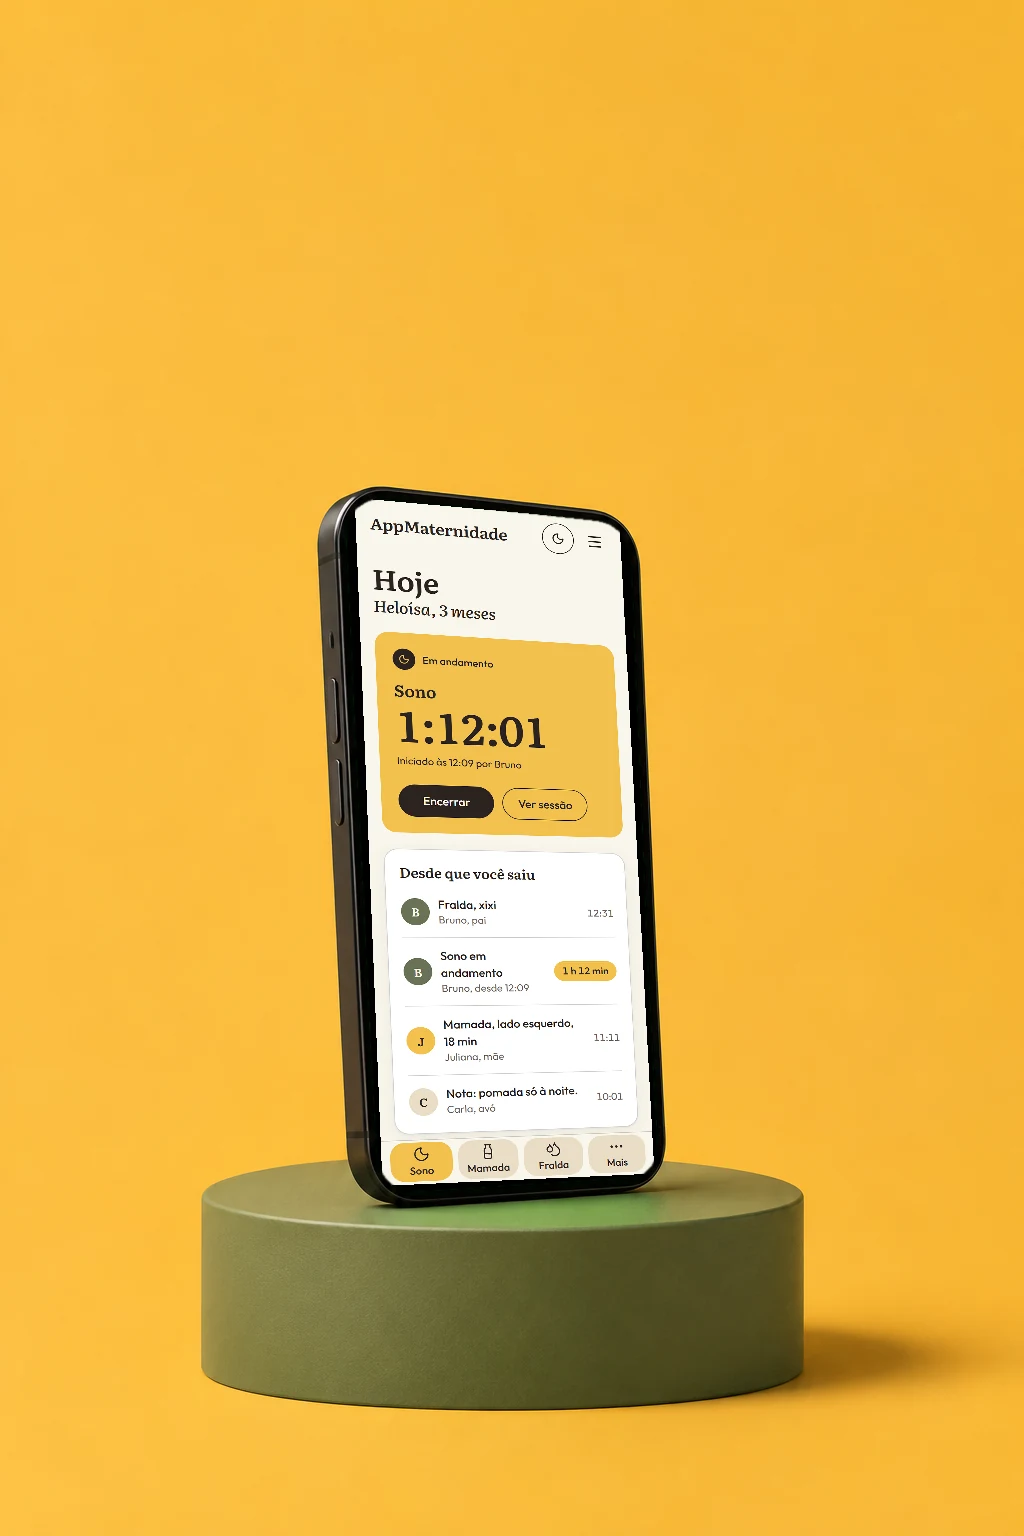
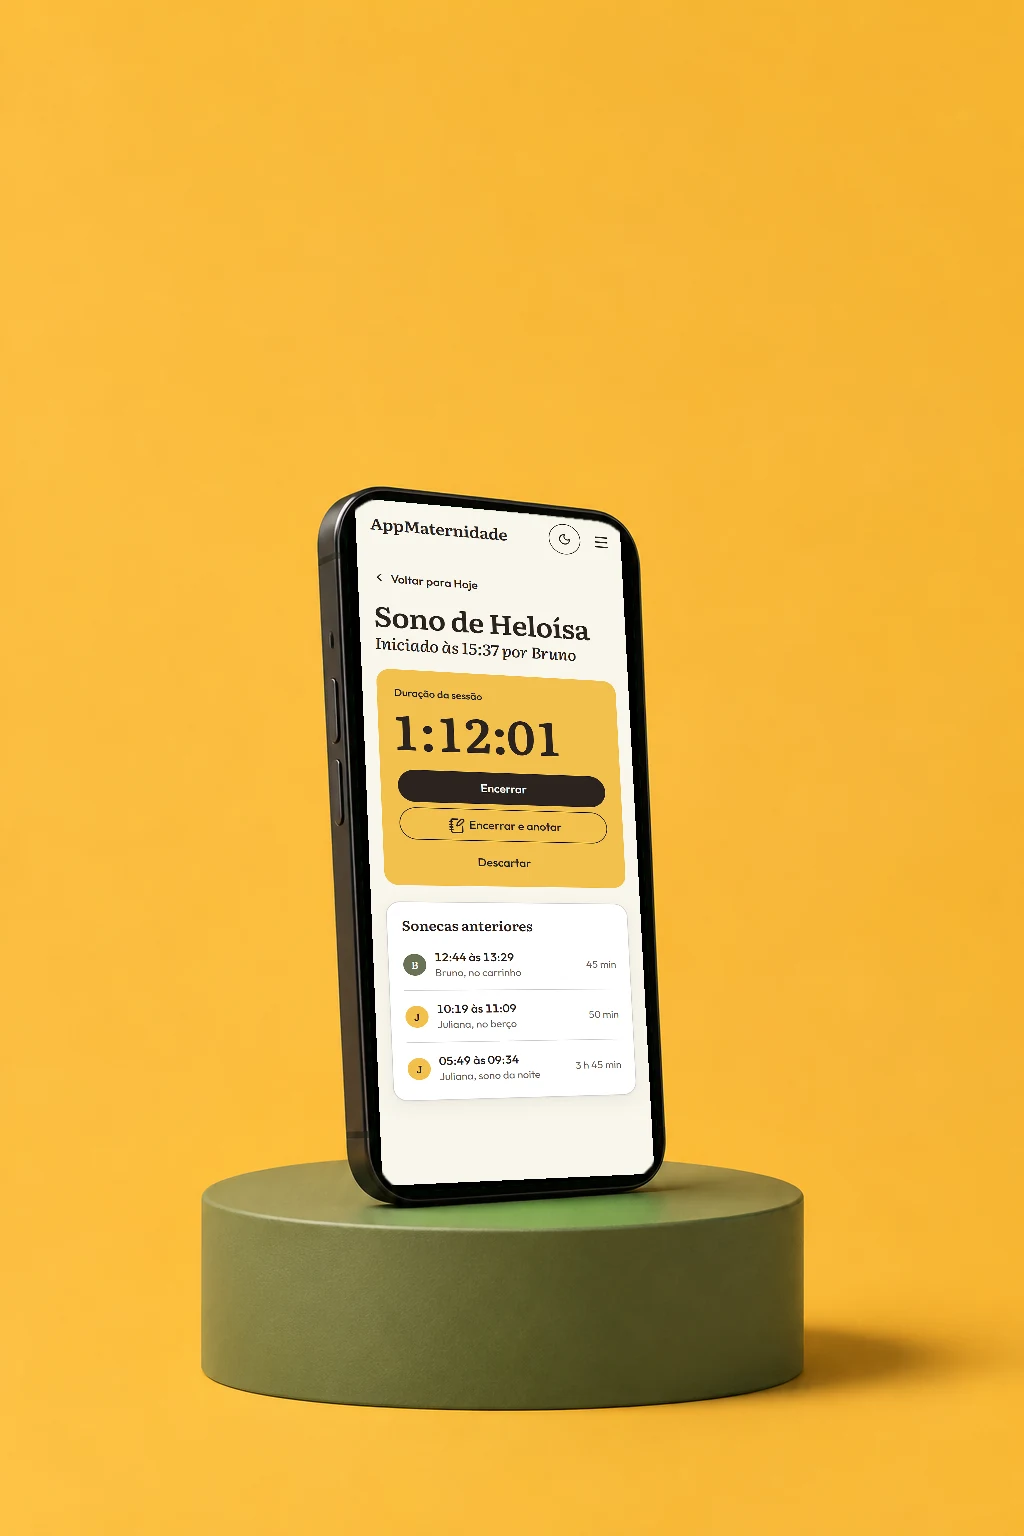
Recompôs as cenas de Como funciona e Desenvolvimento com telas reais

Changed region(s): [[0.3438, 0.375, 0.625, 0.7812], [0.5312, 0.625, 0.5938, 0.6562], [0.5312, 0.3438, 0.5625, 0.375]]

diff --git a/web/public/cenas/publicas/PROVENANCE.md b/web/public/cenas/publicas/PROVENANCE.md
@@ -15,3 +15,10 @@ Same scene sources and compositor (`compor.py`, `verde_restante: 0`); the screen
 - como-funciona@2x.webp: scene `brutos/S2_unico_mel.png`; captures: Hoje (day) 390x1013; 2026-11-11; sha256 21a8ac7792bbbe038567711407952b89ea35eaad5f2be69e8819a6292fa88d1b
 - desenvolvimento@1x.webp: scene `brutos/S4_celular_linho.png`; captures: Sessão (day) 390x850; one-device fallback, no tablet overlap; 2026-11-11; sha256 039718906c68c1356ca178051da38898b1fda0e2f24d749e4fc34a40615c3cd1
 - desenvolvimento@2x.webp: scene `brutos/S4_celular_linho.png`; captures: Sessão (day) 390x850; one-device fallback, no tablet overlap; 2026-11-11; sha256 6c097b1ec9194e684e39ccee43cff831a5d800eb749910f4e81fc09a226e1c24
+
+## Recomposed by POL-DES (2026-11-11)
+
+Same scene sources and compositor (`compor.py`, `verde_restante: 0` for both). The screens are window captures 390 px wide, deviceScaleFactor 2 (780 px wide, at least as wide as the green key: 299 px for S2 and 594 px for S4 in the @2x output), reduced motion, demo notices hidden, from the POL-DES worktree on base e731af5. No "Protótipo" or "dados de exemplo" in the visible text of either capture (checked on the DOM text).
+
+- como-funciona@1x.webp, como-funciona@2x.webp: scene `brutos/S2_unico_mel.png`; capture: Sessão (day, big timer, little small text) 390x1013, sha256 3f424a860c7a2ee9a210e621058a53103dff4215c72ceba181ce4cb2e721e65b; output sha256 @1x 9f0106d86fbecfca1442a26f9b2b8e97ae11525e412aec088c38658a8e82ff89, @2x 05f36ff3bc1f28ceec7e5bce6a046d45399ad256021d41f2afc4eee9cb62c805; 2026-11-11; prompt id S2_unico_mel
+- desenvolvimento@1x.webp, desenvolvimento@2x.webp: scene `brutos/S4_celular_linho.png`; capture: tummy time session screen (`/app/sessao` after starting tummy time in Hoje) 390x850, sha256 ee0e7c2115b99bd323432317781e0c5872e96ccdfa51e92d27cdfe61d6d76bdb; output sha256 @1x 87cee3ba8758acd0dda3b8c25d94dc64cbedb77f80df77d7b9dcf48997bfd351, @2x a54d1a3d55644002ab2e3c3c9998aba5a4f70f09e09e8e77b005e903abe50153; 2026-11-11; prompt id S4_celular_linho
